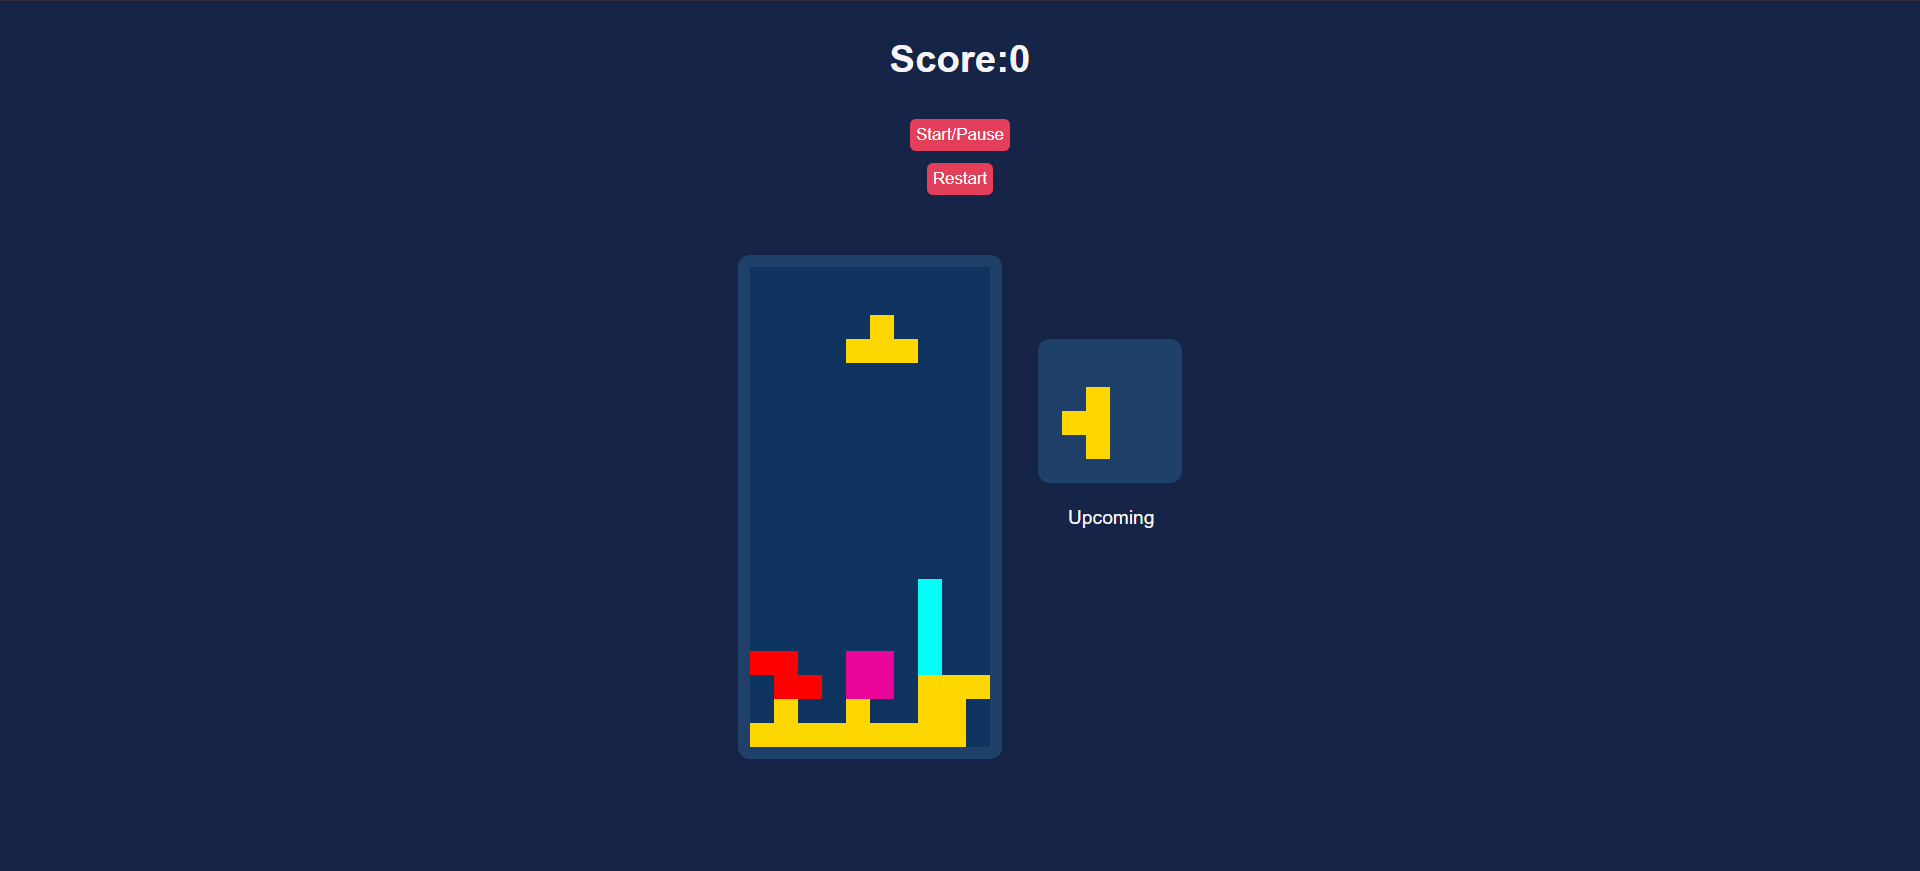
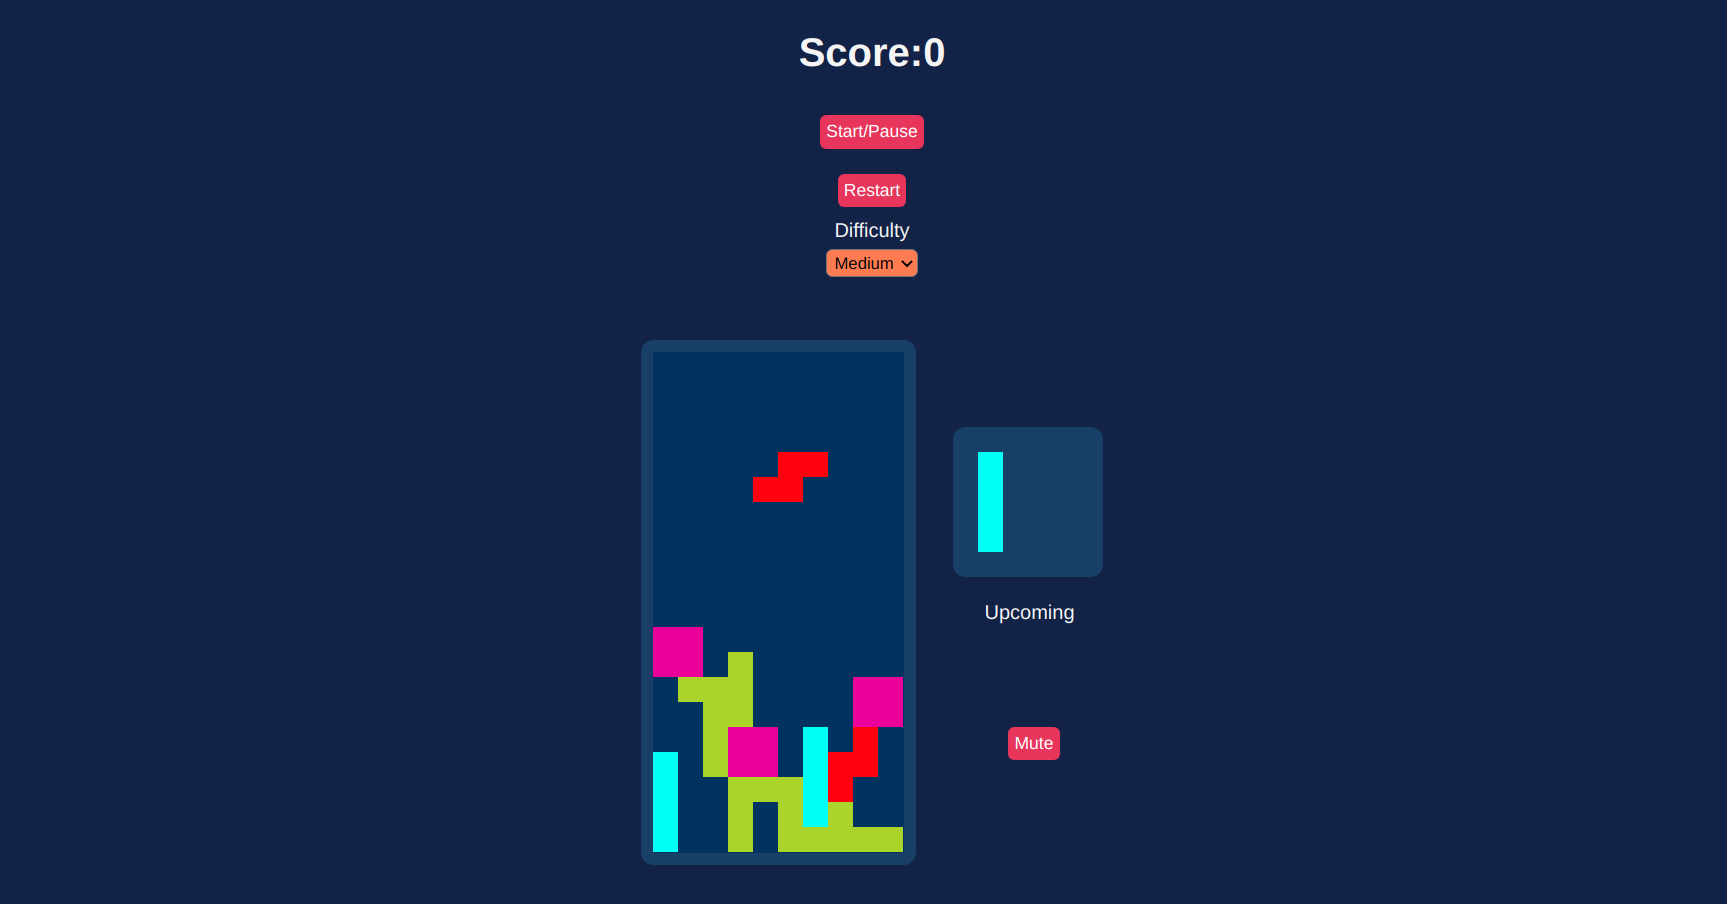
cards game added and tetris image changed

Changed region(s): [[0.3683, 0.124, 0.6445, 0.961], [0.4603, 0.031, 0.5524, 0.093], [0.5831, 0.806, 0.6138, 0.868]]

diff --git a/src/mock/data.js b/src/mock/data.js
@@ -31,15 +31,6 @@ export const aboutData = {
 export const projectsData = [
   {
     id: nanoid(),
-    img: 'tetris.png',
-    title: 'Tetris App',
-    info: 'An application made by using JavaScript, CSS, HTML',
-    info2: 'It has on-display controls that pop when used on mobile devices',
-    url: 'https://tetristetris.netlify.app/',
-    repo: 'https://github.com/HarshVardhan22/Tetris.git', // if no repo, the button will not show up
-  },
-  {
-    id: nanoid(),
     img: 'article.png',
     title: 'Article Fetch App',
     info: 'An application made by using React.js',
@@ -47,6 +38,27 @@ export const projectsData = [
       'It uses the concept of Context API to use States between different components, React Routers to render different objects without reloading the webpage, Fetch API to gather data for the given purpose',
     url: 'https://article-it.netlify.app/',
     repo: 'https://github.com/HarshVardhan22/React-Router.git', // if no repo, the button will not show up
+  },
+  {
+    id: nanoid(),
+    img: 'tetris.png',
+    title: 'Tetris App',
+    info: 'An application made by using JavaScript, CSS, HTML',
+    info2:
+      'It uses the concept of "@media-query" is CSS which makes the webapp responsive so that is shows the the on-display controls only when used on mobile devices',
+    url: 'https://tetristetris.netlify.app/',
+    repo: 'https://github.com/HarshVardhan22/Tetris.git', // if no repo, the button will not show up
+  },
+  {
+    id: nanoid(),
+    img: 'cards.png',
+    title: 'Cards Of Memory- App',
+    info:
+      'An application made by using React.Js. Its a memory game in which the set of cards will hide their value themselves after certain time and the player has to guess it. ',
+    info2:
+      'It is made by using the principle of Context API to share states among different components of react, "useEffect" which is used used to trigger a render on a particular change, "useState" and "props" to alter and share the data dynamically.',
+    url: 'https://cardsofmemory.netlify.app/',
+    repo: 'https://github.com/HarshVardhan22/card-game.git', // if no repo, the button will not show up
   },
 
   {
